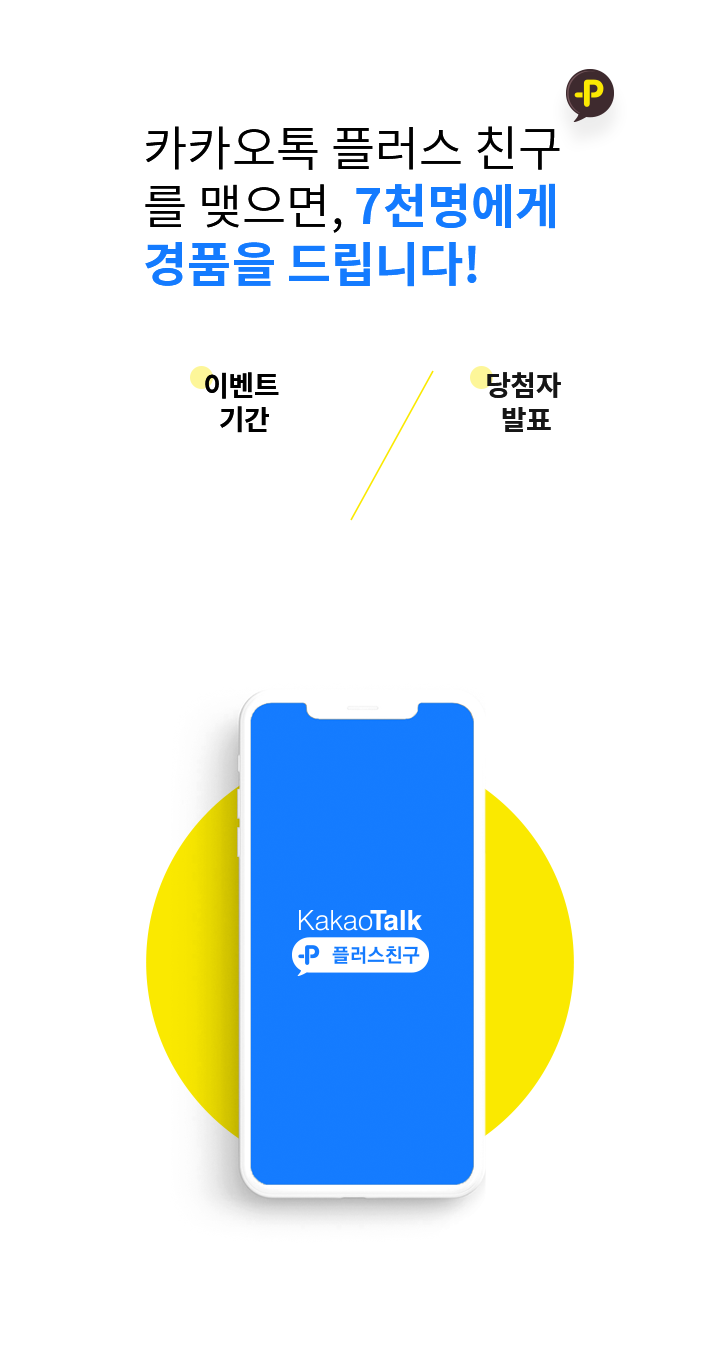
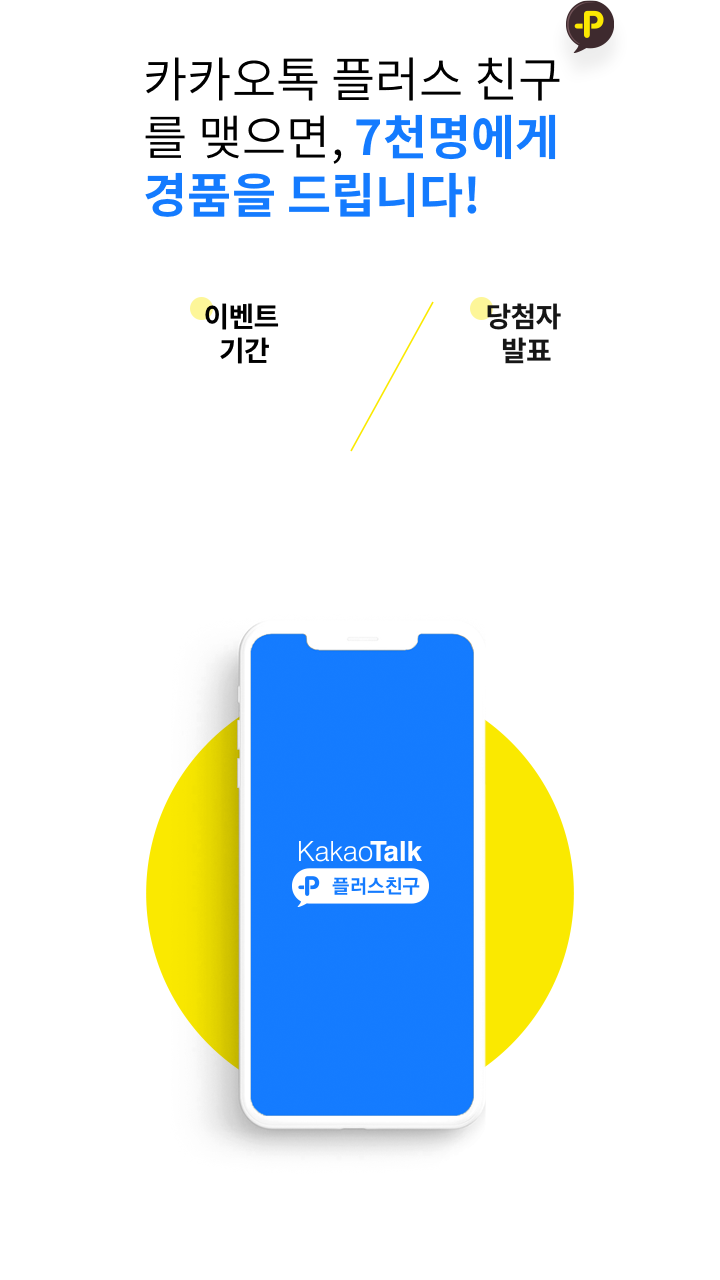
이벤트 수정 재업

diff --git a/kcp/fo/assets/css/ui.css b/kcp/fo/assets/css/ui.css
@@ -2762,11 +2762,11 @@ button.swiper-pagination-bullet { border: none; margin: 0; padding: 0; -webkit-b
 
 .eventpage .event_bg2 { padding-top: 930px; }
 
-.eventpage .event_bg2 .conts { bottom: 220px; left: 52.083%; width: 520px; }
+.eventpage .event_bg2 .conts { bottom: 200px; left: 53%; }
 
-.eventpage .event_bg2 .conts .info { display: inline-block; width: 250px; color: #666; font-size: 24px; font-weight: 350; line-height: 36px; letter-spacing: -0.02em; }
+.eventpage .event_bg2 .conts .info { display: inline-block; width: 270px; color: #666; font-size: 24px; font-weight: 350; line-height: 36px; letter-spacing: -0.02em; }
 
-.eventpage .event_bg2 .conts .info_2 { padding-left: 60px; }
+.eventpage .event_bg2 .conts .info_2 { padding-left: 10px; }
 
 .eventpage .event_bg3 { padding-top: 1060px; }
 

diff --git a/kcp/mo/assets/css/ui.css b/kcp/mo/assets/css/ui.css
@@ -3025,7 +3025,7 @@ button.swiper-pagination-bullet { border: none; margin: 0; padding: 0; -webkit-b
 
 .eventpage .event_bg2 { position: relative; padding-top: 75px; }
 
-.eventpage .event_bg2 .conts { top: 41%; left: 50%; width: 100%; max-width: 600px; -webkit-transform: translateX(-50%); transform: translateX(-50%); }
+.eventpage .event_bg2 .conts { top: 38%; left: 50%; width: 100%; max-width: 600px; -webkit-transform: translateX(-50%); transform: translateX(-50%); }
 
 .eventpage .event_bg2 .conts .info { float: left; width: 50%; color: #666; font-size: 12px; font-weight: 350; line-height: 18px; letter-spacing: -0.02em; text-align: left; padding-left: 17.5%; }
 
